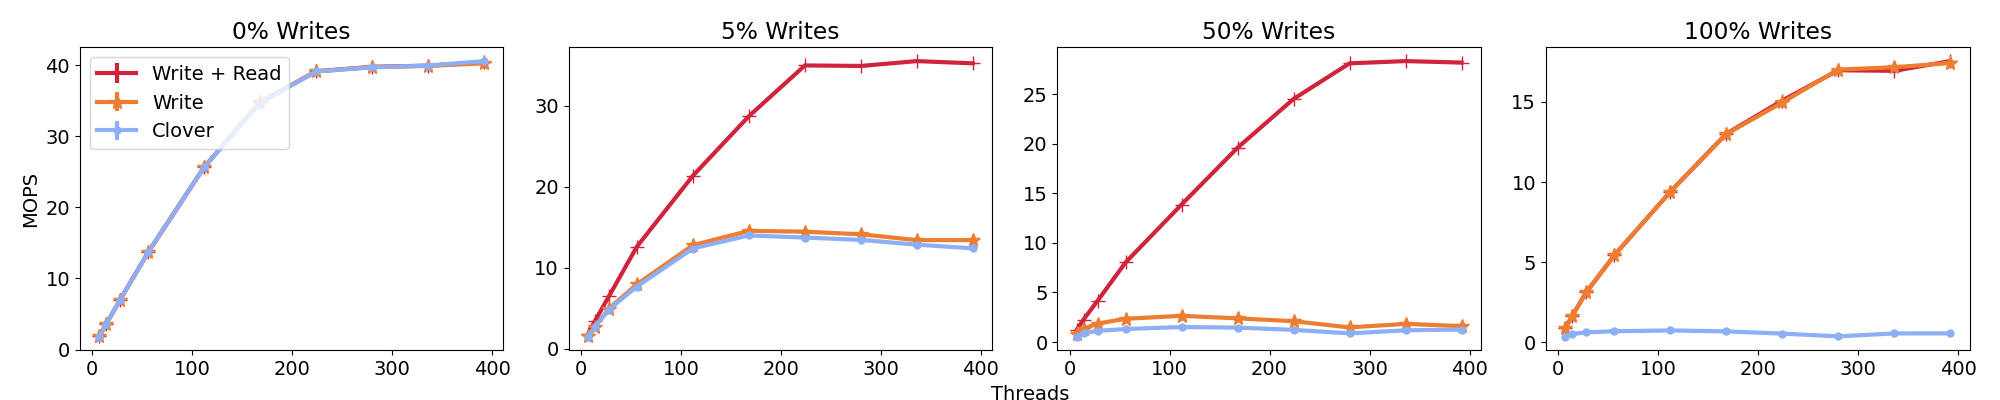
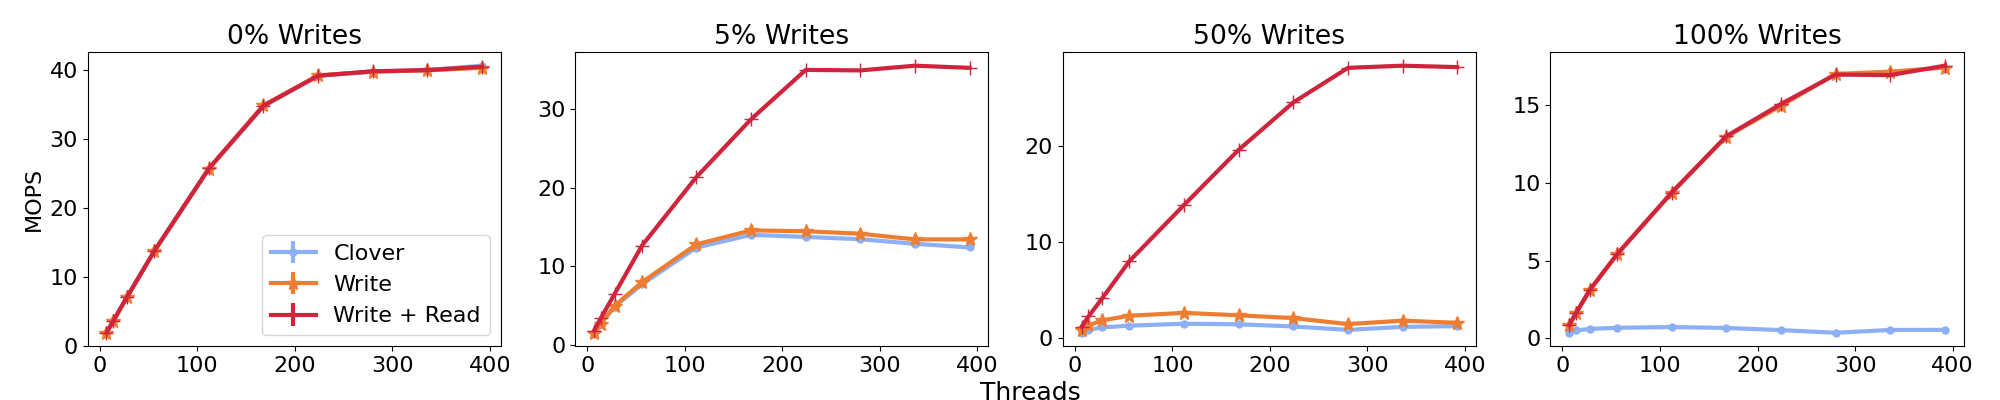
added a (paper ready) version of 3 pswitch plots - contention, packet size, and hero

diff --git a/papers/NSDI23/fig/packet_size.py b/papers/NSDI23/fig/packet_size.py
@@ -1,0 +1,77 @@
+import matplotlib
+import matplotlib.pyplot as plt
+from statistics import mean
+import numpy as np
+
+from common import *
+
+
+plt.rcParams.update({'font.size': 12})
+default_line_width=3
+default_marker_size=10
+
+#fig, (ax1) = plt.subplots(1,1, figsize=(5,4))
+fig, (ax1) = plt.subplots(1,1, figsize=(5,3))
+
+def rdma_int_to_str(m):
+    arr = m["size"]
+    i=0
+    for a in arr:
+        arr[i]=str(a)
+        i=i+1
+    print(arr)
+    m["size"] = arr
+
+def packet_size_plot(ax,rw,w,c):
+    scale_mil(rw)
+    scale_mil(w)
+    scale_mil(c)
+
+    rdma_int_to_str(rw)
+    rdma_int_to_str(w)
+    rdma_int_to_str(c)
+
+    ax.errorbar(c["size"],c["ops"],c["err"],label=default_clover_label,marker=default_clover_marker, color=default_clover_color,linewidth=default_line_width, markersize=default_marker_size )
+    ax.errorbar(w["size"],w["ops"],w["err"],label=write_steering_label,marker=write_steering_marker,color=write_steering_color,linewidth=default_line_width, markersize=default_marker_size)
+    ax.errorbar(rw["size"],rw["ops"],rw["err"],label=read_write_steering_label, marker=read_write_steering_marker, color=read_write_steering_color, linewidth=default_line_width, markersize=default_marker_size)
+
+    #plot_max_improvement(ax,rw,c, "size" )
+    ax.plot()
+
+    #ax.set_yscale('log')        
+    ax.set_ylim(bottom=0, top=25)
+    ax.legend(loc='upper right', prop={'size':10})
+    ax.set_xlabel('Payload Size (Bytes)')
+    return
+
+
+####################### YCSB C
+rdma_size=[128,256,512,1024,]
+avg_ops=[1325264,1185251,1047740,828956,]
+threads=[200,200,200,200,]
+std=[0,0,0,0,]
+clover={"ops": avg_ops,"threads": threads, "err": std, "size": rdma_size}
+
+rdma_size=[128,256,512,1024,]
+avg_ops=[2385936,1923504,1197124,680792,]
+threads=[200,200,200,200,]
+std=[0,0,0,0,]
+
+write={"ops": avg_ops,"threads": threads, "err": std, "size": rdma_size}       
+
+rdma_size=[128,256,512,1024,]
+avg_ops=[20582012,20059844,13918228,11808436,]
+threads=[200,200,200,200,]
+std=[0,0,0,0,]
+rw={"ops": avg_ops,"threads": threads, "err": std, "size": rdma_size}  
+
+#static_plot_attributes(ax1,read_write_steering_C,write_steering_C,clover_with_buffering_C)
+packet_size_plot(ax1,rw,write,clover)
+
+#ax1.set_title('RDMA Payload Size vs Throughput 120 Cores (50% write)')
+ax1.set_ylabel('MOPS')
+#ax1.set_ylim(top=350)
+
+
+plt.tight_layout()
+save_fig(plt)

diff --git a/papers/NSDI23/eval.tex b/papers/NSDI23/eval.tex
@@ -27,7 +27,7 @@ layout of our testbed.
 %  \vskip -0.5em
     \caption{{Performance of {\sword} techniques applied to Clover with 128 byte packets on 4 YCSB
     benchmarks. The percentage of workload writes increases from left to
-    right. Our improvements over Clover are 1.0x, 2.8x, 32x, and 46x respectively.}}
+    right. Our improvements over Clover are 1.0x, 2.8x, 32x, and 46x respectively.\todo{These are single runs not averages, rerun and capture error}}}
     \label{fig:full_system_performance}
       \vskip -0.5em
 \end{figure*}
@@ -113,10 +113,12 @@ logic is pure overhead due to the absence of reads.
   \includegraphics[width=0.485\textwidth]{fig/bandwidth_reduction.pdf}
   \centering
    \vskip -0.5em
-    \caption{Bytes required per Clover operation for each of the three techniques for different write intensities.}
+    \caption{Bytes required per Clover operation for each of the three techniques for different write intensities.\todo{These are DPDK numbers re-run with the pswitch}}
     \label{fig:bandwidth_reduction}
      \vskip -0.5em
 \end{figure}
+
+
 \begin{figure*}
     \includegraphics[width=1.0\textwidth]{fig/99th_latency.pdf}
 %\vskip -1em
@@ -220,6 +222,32 @@ CAS guard.  Rather, these plots show that the (significant)
 logic required in {\sword} to implement these functions result in only
 marginal increase in tail latency relative to steering alone---and still
 significantly outperforms Clover alone.
+
+\subsection{Packet Size}
+\todo{Write about packet sizes}
+
+\begin{figure}
+  \centering
+  \includegraphics[width=0.485\textwidth]{fig/packet_size.pdf}
+
+    \caption{Performance across RDMA payload sizes using 120 client cores.
+    \todo{These numbers need to be extended to 400 cores}}
+
+    \label{fig:packet_size}
+\end{figure}
+
+\subsection{Contention}
+\todo{Write about contention}
+\begin{figure}
+  \centering
+  \includegraphics[width=0.485\textwidth]{fig/contention.pdf}
+
+    \caption{Performance as contention increases with zipf coefficient using 120 client cores.
+    \todo{These numbers need to be extended to 400 cores}}
+
+    \label{fig:packet_size}
+\end{figure}
+
 
 %The application of QP mapping and swapping
 %CNS to writes does little to effect tail latency as their performance

diff --git a/papers/NSDI23/fig/full_system_performance.py b/papers/NSDI23/fig/full_system_performance.py
@@ -4,7 +4,7 @@ from statistics import mean
 import numpy as np
 from common import *
 
-plt.rcParams.update({'font.size': 14})
+plt.rcParams.update({'font.size': 16})
 default_line_width=3
 default_marker_size=10
 
@@ -14,9 +14,9 @@ def tput_err(ax,rws,ws, clover):
     scale_mil(rws)
     scale_mil(ws)
     scale_mil(clover)
-    ax.errorbar(rws["threads"],rws["ops"],rws["err"],label=read_write_steering_label, marker=read_write_steering_marker, color=read_write_steering_color, linewidth=default_line_width, markersize=default_marker_size)
-    ax.errorbar(ws["threads"],ws["ops"],ws["err"],label=write_steering_label,marker=write_steering_marker,color=write_steering_color,linewidth=default_line_width, markersize=default_marker_size )
     ax.errorbar(clover["threads"],clover["ops"],clover["err"],label=default_clover_label,marker=default_clover_marker, color=default_clover_color,linewidth=default_line_width, markersize=default_marker_size )
+    ax.errorbar(ws["threads"],ws["ops"],ws["err"],label=write_steering_label,marker=write_steering_marker,color=write_steering_color,linewidth=default_line_width, markersize=default_marker_size )
+    ax.errorbar(rws["threads"],rws["ops"],rws["err"],label=read_write_steering_label, marker=read_write_steering_marker, color=read_write_steering_color, linewidth=default_line_width, markersize=default_marker_size)
 
     #plot_max_improvement(ax,rws,clover,"threads")
 
@@ -42,7 +42,7 @@ tput_err(ax1,read_write_steering_C,write_steering_C,clover_with_buffering_C)
 
 ax1.set_title('0% Writes')
 ax1.set_ylabel('MOPS')
-ax1.legend(loc='upper left', ncol=1)
+ax1.legend(loc='lower right', ncol=1)
 
 ####################### YCSB B
 avg_ops=[1487724,2655252,4818364,7666020,12365564,13979169,13716786,13427863,12837368,12382960,]
@@ -101,6 +101,6 @@ read_write_steering_W= {"ops": avg_ops,"threads": threads, "err": std}
 tput_err(ax4,read_write_steering_W,write_steering_W,clover_with_buffering_W)
 ax4.set_title('100% Writes')
 
-fig.text(0.515,0.00, "Threads", ha='center')
+fig.text(0.515,0.00, "Threads", ha='center', size=18)
 plt.tight_layout()
 save_fig(plt)

diff --git a/papers/NSDI23/fig/contention.py b/papers/NSDI23/fig/contention.py
@@ -1,0 +1,51 @@
+import matplotlib
+import matplotlib.pyplot as plt
+from statistics import mean
+import numpy as np
+
+from common import *
+
+plt.rcParams.update({'font.size': 12})
+fig, ax1 = plt.subplots(1,1, figsize=(5,3))
+default_line_width=3
+default_marker_size=10
+
+def contention_err(ax,rws,ws, clover):
+    scale_mil(rws)
+    scale_mil(ws)
+    scale_mil(clover)
+    ax.errorbar(clover["zipf"],clover["ops"],clover["err"],label=default_clover_label,marker=default_clover_marker, color=default_clover_color,linewidth=default_line_width, markersize=default_marker_size )
+    ax.errorbar(ws["zipf"],ws["ops"],ws["err"],label=write_steering_label,marker=write_steering_marker,color=write_steering_color,linewidth=default_line_width, markersize=default_marker_size )
+    ax.errorbar(rws["zipf"],rws["ops"],rws["err"],label=read_write_steering_label, marker=read_write_steering_marker, color=read_write_steering_color,linewidth=default_line_width, markersize=default_marker_size )
+
+    #plot_max_improvement(ax,rws,clover,"zipf")
+    ax.legend( ncol=1, prop={'size': 8})
+    ax.set_xlabel('zipf coefficient')
+
+def gen_tuples(ops,zipf,err):
+    return {'zipf': zipf, 'ops': ops, 'err': err}
+
+
+####################### 128 YCSB A
+
+
+std=[0, 0, 0, 0, 0, 0, 0, 0, 0, 0]
+zipf=[0.00, 0.60, 0.80, 0.90, 1.00, 1.10, 1.20, 1.30, 1.40, 1.50]
+clover=[7764629,4234248,2277200,1681447,1320832,1063940,729975,737028,505416,556716,]
+write=[10801420,6625309,3886915,2976940,2388756,1965756,1660965,1409957,968532,837804,]
+rw=[21694160,21540721,21353131,20935003,20589709,19823556,19043452,17940872,16672884,15133444,]
+clover_with_buffering_A_128 = gen_tuples(clover,zipf,std)
+write_steering_A_128       = gen_tuples(write,zipf,std)
+read_write_steering_A_128  = gen_tuples(rw,zipf,std)
+
+
+contention_err(ax1,read_write_steering_A_128,write_steering_A_128,clover_with_buffering_A_128)
+
+#ax1.set_title('Zipf Coeff 50% Writes 128 bytes')
+ax1.set_ylabel('MOPS')
+#ax1.set_ylim(top=350)
+
+
+
+plt.tight_layout()
+save_fig(plt)
